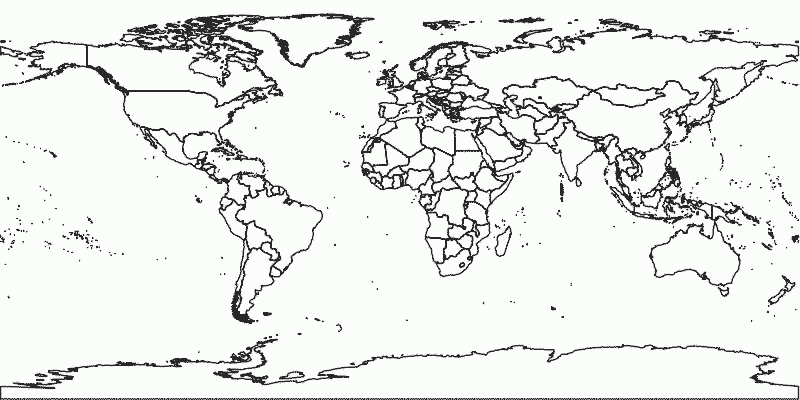
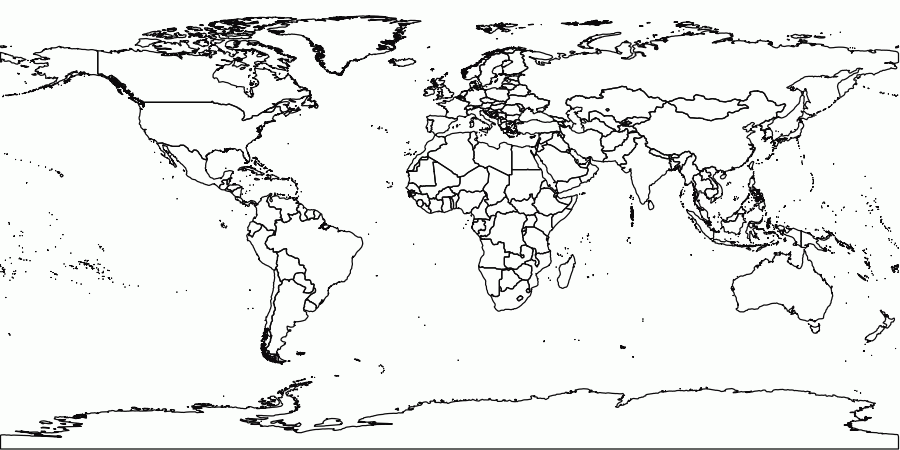
Resized default map to be a bit larger

diff --git a/public/javascript/simplemappr.min.js b/public/javascript/simplemappr.min.js
@@ -1,8 +1,8 @@
 /*
  * jQuery SimpleMappr
  */
-var SimpleMappr=function(b,k,h){'use strict';var q={settings:{baseUrl:"",active:!1,maxTextareaCount:10,undoSize:10},vars:{newPointCount:0,newRegionCount:0,zoom:!0,fileDownloadTimer:{},fillColor:"",jCropType:"zoom",cropUpdated:!1,origins:{"esri:102009":-96,"esri:102015":-60,"esri:102014":10,"esri:102012":105,"esri:102024":25,"epsg:3112":134},spinner:b("#map-loader").find("span.mapper-loading-spinner")},trackEvent:function(a,b){void 0!==k._gaq&&_gaq.push(["_trackEvent",a,b])},getPageSize:function(){var a,b,d,e;
-k.innerHeight&&k.scrollMaxY?(a=k.innerWidth+k.scrollMaxX,b=k.innerHeight+k.scrollMaxY):h.body.scrollHeight>h.body.offsetHeight?(a=h.body.scrollWidth,b=h.body.scrollHeight):(a=h.body.offsetWidth,b=h.body.offsetHeight);self.innerHeight?(d=h.documentElement.clientWidth?h.documentElement.clientWidth:self.innerWidth,e=self.innerHeight):h.documentElement&&h.documentElement.clientHeight?(d=h.documentElement.clientWidth,e=h.documentElement.clientHeight):h.body&&(d=h.body.clientWidth,e=h.body.clientHeight);
+var SimpleMappr=function(b,k,h){'use strict';var q={settings:{baseUrl:"",active:!1,seed:"",maxTextareaCount:10,undoSize:10},vars:{newPointCount:0,newRegionCount:0,zoom:!0,fileDownloadTimer:{},fillColor:"",jCropType:"zoom",cropUpdated:!1,origins:{"esri:102009":-96,"esri:102015":-60,"esri:102014":10,"esri:102012":105,"esri:102024":25,"epsg:3112":134},spinner:b("#map-loader").find("span.mapper-loading-spinner")},trackEvent:function(a,b){void 0!==k._gaq&&_gaq.push(["_trackEvent",a,b])},getPageSize:function(){var a,
+b,d,e;k.innerHeight&&k.scrollMaxY?(a=k.innerWidth+k.scrollMaxX,b=k.innerHeight+k.scrollMaxY):h.body.scrollHeight>h.body.offsetHeight?(a=h.body.scrollWidth,b=h.body.scrollHeight):(a=h.body.offsetWidth,b=h.body.offsetHeight);self.innerHeight?(d=h.documentElement.clientWidth?h.documentElement.clientWidth:self.innerWidth,e=self.innerHeight):h.documentElement&&h.documentElement.clientHeight?(d=h.documentElement.clientWidth,e=h.documentElement.clientHeight):h.body&&(d=h.body.clientWidth,e=h.body.clientHeight);
 return[a<d?a:d,b<e?e:b,d,e]},getPageScroll:function(){var a,b;self.pageYOffset?(b=self.pageYOffset,a=self.pageXOffset):h.documentElement&&h.documentElement.scrollTop?(b=h.documentElement.scrollTop,a=h.documentElement.scrollLeft):h.body&&(b=h.body.scrollTop,a=h.body.scrollLeft);return[a,b]},showCoords:function(a){var c=this,d=parseFloat(a.x),e=parseFloat(a.y),f=parseFloat(a.x2),g=parseFloat(a.y2),l=parseFloat(a.w);a=parseFloat(a.h);var h={x:d,y:e},p={x:f,y:g},k={},m={},r=b("#mapExport").find('input[name="download-factor"]:checked').val(),
 n=b("#mapOutput");switch(this.vars.jCropType){case "crop":n.find("div.jcrop-holder div:first").css({backgroundColor:"white"});b("#bbox_rubberband").val(d+","+e+","+f+","+g);"epsg:4326"===b("#projection option:selected").val()?n.find("input.jcrop-coord").css({width:"100px"}):n.find("input.jcrop-coord").css({width:"175px"});0===b("#jcrop-coord-ul").length&&0===b("#jcrop-coord-lr").length&&n.find("div.jcrop-tracker").eq(0).after('<input type="text" id="jcrop-coord-ul" class="jcrop-coord"></input>').after('<input type="text" id="jcrop-coord-lr" class="jcrop-coord"></input>').after('<div id="jcrop-dimension-wrapper"><input type="text" id="jcrop-dimension-w" class="jcrop-dimension"></input>X<input type="text" id="jcrop-dimension-h" class="jcrop-dimension"></input></div>');
 k=c.pix2geo(h);m=c.pix2geo(p);b("#jcrop-coord-ul").val(k.x+", "+k.y);b("#jcrop-coord-lr").val(m.x+", "+m.y);b("#jcrop-dimension-w").val(l);b("#jcrop-dimension-h").val(a);b("#jcrop-dimension-wrapper").css({left:l/2-b("#jcrop-dimension-wrapper").width()/2,top:a/2-b("#jcrop-dimension-wrapper").height()/2});b.cookie("jcrop_coords",'{ "jcrop_coord_ul" : "'+b("#jcrop-coord-ul").val()+'", "jcrop_coord_lr" : "'+b("#jcrop-coord-lr").val()+'" }');n.on("blur","input.jcrop-coord",function(){c.vars.cropUpdated||
@@ -14,10 +14,10 @@ parseFloat(a.x)*c/f,2);l.y=this.roundNumber(parseFloat(e[1])+parseFloat(g-parseF
 d;return f},roundNumber:function(a,b){return Math.round(a*Math.pow(10,b))/Math.pow(10,b)},tabSelector:function(a){var c={};b("#tabs").tabs("select",a);c.tabs=a;b.bbq.pushState(c)},RGBtoHex:function(a,b,d){return this.toHex(a)+this.toHex(b)+this.toHex(d)},toHex:function(a){if(null===a)return"00";a=parseInt(a,10);if(0===a||isNaN(a))return"00";a=Math.max(0,a);a=Math.min(a,255);a=Math.round(a);return"0123456789ABCDEF".charAt((a-a%16)/16)+"0123456789ABCDEF".charAt(a%16)},bindToolbar:function(){var a=this,
 c="";b("#actionsBar").find("li").hover(function(){b(this).toggleClass("ui-state-hover")}).end().find("a.toolsQuery").ColorPicker({onBeforeShow:function(){b(this).ColorPickerSetColor(a.RGBtoHex(150,150,150))},onShow:function(c){b(c).show();a.destroyJcrop();return!1},onHide:function(a){b(a).hide();return!1},onSubmit:function(c,e,f,g){a.unusedVariables(c,e);b(g).ColorPickerHide();a.vars.fillColor=f;a.initJquery();a.vars.zoom=!1}}).end().on("click","a",function(d){d.preventDefault();c=b(this).attr("class").match(/tools([\w\W]+)/)[1].toLowerCase();
 switch(c){case "zoomin":a.mapZoom("in");break;case "zoomout":a.mapZoom("out");break;case "crop":a.mapCrop();break;case "query":a.resetJbbox();break;case "refresh":a.mapRefresh();break;case "rebuild":a.mapRebuild();break;case "save":a.mapSave();break;case "download":a.mapDownload()}a.trackEvent("toolbar",c)})},mapCrop:function(){var a={},c=[],c={},a=[],a={};b.cookie("jcrop_coords")?(a=b.parseJSON(b.cookie("jcrop_coords")),c=a.jcrop_coord_ul.split(","),a=a.jcrop_coord_lr.split(","),c=this.geo2pix({x:b.trim(c[0]),
-y:b.trim(c[1])}),a=this.geo2pix({x:b.trim(a[0]),y:b.trim(a[1])}),this.loadCropSettings({map:{bbox_rubberband:a.x+","+a.y+","+c.x+","+c.y}})):this.initJcrop();this.vars.zoom=!1},resetAndBuild:function(){this.resetJbbox();this.destroyRedo();this.showMap()},mapRefresh:function(){this.resetAndBuild();this.tabSelector(0)},mapRebuild:function(){b.each("bbox_map projection_map bbox_rubberband rotation projection pan".split(" "),function(){b("#"+this).val("")});this.destroyRedo();this.showMap()},bindArrows:function(){var a=
-this;b("#wheel-overlay").on("click","a.arrows",function(c){c.preventDefault();b("#pan").val(b(this).attr("data-pan"));a.resetJbbox();a.showMap();a.trackEvent("arrows",b(this).attr("data-pan"))})},mapPan:function(a){b("#pan").val(a);this.resetAndBuild()},mapList:function(){this.tabSelector(3)},mapZoom:function(a){"in"===a?(this.initJzoom(),this.vars.zoom=!0):(this.resetJbbox(),b("#zoom_out").val(1),this.destroyRedo(),this.showMap(),b("#zoom_out").val(""))},storageType:function(a){var c=0,d=this;return c=
-b.grep(b.jStorage.index(),function(b,c){d.unusedVariables(c);return b.substring(0,a.length)===a})},toggleUndo:function(a){var c=this,d=this.storageType("do"),e=b("#actionsBar");e.find("a.toolsUndo").removeClass("toolsUndo").addClass("toolsUndoDisabled").off("click");a&&1<d.length&&(d.length>c.settings.undoSize&&b.jStorage.deleteKey(d.shift()),e.find("a.toolsUndoDisabled").addClass("toolsUndo").removeClass("toolsUndoDisabled").on("click",function(a){a.preventDefault();c.mapUndo();c.trackEvent("edit",
-"undo")}))},toggleRedo:function(a){var c=this,d=b("#actionsBar");d.find("a.toolsRedo").addClass("toolsRedoDisabled").removeClass("toolsRedo").off("click");if(a)d.find("a.toolsRedoDisabled").addClass("toolsRedo").removeClass("toolsRedoDisabled").on("click",function(a){a.preventDefault();c.mapRedo();c.trackEvent("edit","redo")})},destroyRedo:function(){var a=this.storageType("undo"),c=b("#actionsBar");0<a.length&&(c.find("a.toolsRedo").addClass("toolsRedoDisabled").removeClass("toolsRedo").off("click"),
+y:b.trim(c[1])}),a=this.geo2pix({x:b.trim(a[0]),y:b.trim(a[1])}),this.loadCropSettings({map:{bbox_rubberband:a.x+","+a.y+","+c.x+","+c.y}})):this.initJcrop();this.vars.zoom=!1},resetAndBuild:function(){this.resetJbbox();this.destroyRedo();this.showMap()},mapRefresh:function(){this.resetAndBuild();this.tabSelector(0)},mapRebuild:function(){b.each(["bbox_map","projection_map","bbox_rubberband","rotation","pan"],function(){b("#"+this).val("")});b("#projection")[0].selectedIndex=0;this.destroyRedo();
+this.showMap()},bindArrows:function(){var a=this;b("#wheel-overlay").on("click","a.arrows",function(c){c.preventDefault();b("#pan").val(b(this).attr("data-pan"));a.resetJbbox();a.showMap();a.trackEvent("arrows",b(this).attr("data-pan"))})},mapPan:function(a){b("#pan").val(a);this.resetAndBuild()},mapList:function(){this.tabSelector(3)},mapZoom:function(a){"in"===a?(this.initJzoom(),this.vars.zoom=!0):(this.resetJbbox(),b("#zoom_out").val(1),this.destroyRedo(),this.showMap(),b("#zoom_out").val(""))},
+storageType:function(a){var c=0,d=this;return c=b.grep(b.jStorage.index(),function(b,c){d.unusedVariables(c);return b.substring(0,a.length)===a})},toggleUndo:function(a){var c=this,d=this.storageType("do"),e=b("#actionsBar");e.find("a.toolsUndo").removeClass("toolsUndo").addClass("toolsUndoDisabled").off("click");a&&1<d.length&&(d.length>c.settings.undoSize&&b.jStorage.deleteKey(d.shift()),e.find("a.toolsUndoDisabled").addClass("toolsUndo").removeClass("toolsUndoDisabled").on("click",function(a){a.preventDefault();
+c.mapUndo();c.trackEvent("edit","undo")}))},toggleRedo:function(a){var c=this,d=b("#actionsBar");d.find("a.toolsRedo").addClass("toolsRedoDisabled").removeClass("toolsRedo").off("click");if(a)d.find("a.toolsRedoDisabled").addClass("toolsRedo").removeClass("toolsRedoDisabled").on("click",function(a){a.preventDefault();c.mapRedo();c.trackEvent("edit","redo")})},destroyRedo:function(){var a=this.storageType("undo"),c=b("#actionsBar");0<a.length&&(c.find("a.toolsRedo").addClass("toolsRedoDisabled").removeClass("toolsRedo").off("click"),
 b.jStorage.deleteKey(a.pop()))},mapUndo:function(){var a=this.storageType("do"),c="",d={},e="",e={},f={};1!==a.length&&(this.destroyRedo(),c=a[a.length-1],d=b.jStorage.get(c),e=a[a.length-2],e=b.jStorage.get(e),f=this.prepareInputs(e),this.loadInputs(f),b.jStorage.deleteKey(c),b.jStorage.set("un"+c,d),e.width!==d.width?this.mapToggleSettings():(this.showSpinner(),this.postData(decodeURIComponent(b.param(e)),null)),this.toggleRedo(!0),2===a.length&&this.toggleUndo())},mapRedo:function(){var a=this.storageType("undo"),
 c="",d={},e={},e=this.storageType("do"),f="",f={},g=(new Date).getTime();0!==a.length&&(this.toggleRedo(),c=a.pop(),d=b.jStorage.get(c),f=e[e.length-1],f=b.jStorage.get(f),e=this.prepareInputs(d),this.loadInputs(e),b.jStorage.deleteKey(c),b.jStorage.set("do-"+g.toString(),d),d.width!==f.width?this.mapToggleSettings():(this.showSpinner(),this.postData(decodeURIComponent(b.param(d)),null)),this.toggleUndo(!0))},bindHotkeys:function(){var a=this,c={},d={},c={"ctrl+s":a.bindCallback(a,a.mapSave),"ctrl+d":a.bindCallback(a,
 a.mapDownload),"ctrl+l":a.bindCallback(a,a.mapList),"ctrl+r":a.bindCallback(a,a.mapRefresh),"ctrl+n":a.bindCallback(a,a.mapRebuild),"ctrl+x":a.bindCallback(a,a.mapCrop),"ctrl+e":a.bindCallback(a,a.mapToggleSettings),"ctrl++":a.bindCallback(a,a.mapZoom,"in"),"ctrl+-":a.bindCallback(a,a.mapZoom,"out"),esc:a.bindCallback(a,a.destroyJcrop),"ctrl+z":a.bindCallback(a,a.mapUndo),"ctrl+y":a.bindCallback(a,a.mapRedo)},d={up:a.bindCallback(a,a.mapPan,"up"),down:a.bindCallback(a,a.mapPan,"down"),left:a.bindCallback(a,
@@ -68,7 +68,7 @@ this+'"]:checked').val())}),b("#grid_space").val(b("#graticules-selection").find
 {text:b("#button-titles").find("span.cancel").text(),"class":"ui-button-cancel",click:function(){b(this).dialog("destroy")}}]})},mapDownload:function(){var a=this;b("#mapExport").dialog({autoOpen:!0,width:"620",dialogClass:"ui-dialog-title-mapExport",modal:!0,closeOnEscape:!1,draggable:!0,resizable:!1,buttons:[{text:b("#button-titles").find("span.download").text(),"class":"positive",click:function(){a.generateDownload()}},{text:b("#button-titles").find("span.cancel").text(),"class":"ui-button-cancel",
 click:function(){b(this).dialog("destroy")}}]})},bindSubmit:function(){var a=this,c="",d=!1;b("#map-points, #map-regions").find("button.submitForm").on("click",function(e){e.preventDefault();d=!1;b.each(b(this).parent().parent().find("div.fieldSets").children(),function(){c=b(this).find("input.m-mapTitle").on("keyup",function(){d=!1;b(this).removeClass("ui-state-error")});if(b(this).find("textarea.m-mapCoord").val()&&""===c.val())return d=!0,c.addClass("ui-state-error"),!1});d?a.showMessage(b("#mapper-missing-legend").text()):
 (a.destroyRedo(),a.showMap(),a.tabSelector(0))})},mapToggleSettings:function(){b("#mapToolsCollapse").find("a").trigger("click")},bindPanelToggle:function(){var a=this;b("#mapToolsCollapse").find("a").tipsy({gravity:"e"}).toggleClick(function(c){c.preventDefault();b("#mapOutputImage").attr("width",0).attr("height",0).css({width:"0px",height:"0px"});b("#mapOutputScale").hide();b(this).parent().addClass("mapTools-collapsed");b("#mapTools").hide("slide",{direction:"right"},250,function(){var c=0.98*
-b(k).width();b("#actionsBar").animate({width:c},250);b("#map").animate({width:c},250,function(){b("#width").val(c);a.mapRefresh()})})},function(c){c.preventDefault();b("#mapOutputImage").attr("width",0).attr("height",0).css({width:"0px",height:"0px"});b("#mapOutputScale").hide();b(this).parent().removeClass("mapTools-collapsed");b("#mapTools").show("slide",{direction:"right"},250,function(){b("#actionsBar").animate({width:"810px"},250);b("#map").animate({width:"800px"},250,function(){b("#width").val(800);
+b(k).width();b("#actionsBar").animate({width:c},250);b("#map").animate({width:c},250,function(){b("#width").val(c);a.mapRefresh()})})},function(c){c.preventDefault();b("#mapOutputImage").attr("width",0).attr("height",0).css({width:"0px",height:"0px"});b("#mapOutputScale").hide();b(this).parent().removeClass("mapTools-collapsed");b("#mapTools").show("slide",{direction:"right"},250,function(){b("#actionsBar").animate({width:"910px"},250);b("#map").animate({width:"900px"},250,function(){b("#width").val(900);
 a.mapRefresh()})})})},showMessage:function(a){b("#mapper-message").html(a).dialog({autoOpen:!0,height:"200",width:"400",dialogClass:"ui-dialog-title-mapper-message",modal:!0,closeOnEscape:!1,draggable:!0,resizable:!1,buttons:[{text:"OK","class":"positive",click:function(){b(this).dialog("destroy")}}]}).show()},drawLegend:function(){var a=b("#legend_url").val(),c=b("#mapLegend");a?c.html('<img src="'+a+'" />'):c.html("<p><em>"+b("#mapper-legend-message").text()+"</em></p>")},drawScalebar:function(){b("#mapScale").find("img").attr("src",
 b("#scalebar_url").val()).show()},showBadPoints:function(){var a=b("#bad_points").val();a&&(b("#badRecords").html(a),b("#badRecordsWarning").show())},showSpinner:function(){this.vars.spinner.show()},hideSpinner:function(){this.vars.spinner.hide()},showErrorMessage:function(a){a='<span class="mapper-message-error ui-corner-all ui-widget-content">'+a+"</span>";b("#mapOutput").append(a)},hideErrorMessage:function(){b("#mapOutput").find(".mapper-message-error").remove()},showMap:function(a){var c=(new Date).getTime(),
 d="",e={};this.destroyJcrop();b("#output").val("pnga");b("#badRecordsWarning").hide();b("#download_token").val(c);this.showSpinner();d=b("form").serialize();e=b("form").serializeJSON();this.postData(d,a);b.jStorage.set("do-"+c.toString(),e);this.toggleUndo(!0)},postData:function(a,c){var d=this;d.hideErrorMessage();b.ajax({type:"POST",url:d.settings.baseUrl+"/application/",data:a,dataType:"json",timeout:3E4,success:function(a){d.resetFormValues(a);d.resetJbbox();d.drawMap(a,c);d.drawLegend();d.drawScalebar();
@@ -78,14 +78,15 @@ position:[200,200],modal:!0,closeOnEscape:!1,draggable:!0,resizable:!1,buttons:[
 b("#file_name").val(c);b("#download_factor").val(b("#mapExport").find('input[name="download-factor"]:checked').val());g=b("#mapExport").find('input[name="download-filetype"]:checked').val();a.setFormOptions();b("#download_token").val(d);b("#mapExport").find("div.download-dialog").hide().end().next().hide().end().find("div.download-message").show();switch(g){case "pptx":b("#output").val("pptx");a.vars.jcropAPI?b("#crop").val(1):a.resetJbbox();f=b("form").serialize();b("body").download("/pptx/"+a.getLanguage(),
 f,"post");b("#output").val("pnga");break;case "docx":b("#output").val("docx");a.vars.jcropAPI?b("#crop").val(1):a.resetJbbox();f=b("form").serialize();b("body").download("/docx/"+a.getLanguage(),f,"post");b("#output").val("pnga");break;case "kml":f=b("form").serialize();b("body").download("/kml/",f,"post");break;default:b("#download").val(1),b("#output").val(g),a.vars.jcropAPI?b("#crop").val(1):a.resetJbbox(),f=b("form").serialize(),b("body").download("/application/",f,"post"),b("#download").val(""),
 b("#output").val("pnga")}a.vars.fileDownloadTimer=k.setInterval(function(){e=b.cookie("fileDownloadToken");e===d&&a.finishDownload()},1E3);a.trackEvent("download",g)},setFormOptions:function(){b.each(["border","legend","scalebar","scalelinethickness"],function(){b("#options\\["+this+"\\]").val("");b("#"+this).prop("checked")&&b("#options\\["+this+"\\]").val(1)})},finishDownload:function(){b("#mapExport").find("div.download-message").hide().end().next().show().end().find("div.download-dialog").show();
-k.clearInterval(this.vars.fileDownloadTimer);b.cookie("fileDownloadToken",null)},showExamples:function(){b("#mapper-message-help").html('<img src="public/images/help-data.png" alt="" />').dialog({height:"355",width:"525",dialogClass:"ui-dialog-title-mapper-message-help",autoOpen:!0,modal:!0,closeOnEscape:!1,draggable:!0,resizable:!1,buttons:[{text:"OK","class":"positive",click:function(){b(this).dialog("destroy")}}]}).show()},showCodes:function(){var a=this.getParameterByName("locale")?{locale:this.getParameterByName("locale")}:
-{};b("#mapper-message-codes").dialog({height:"450",width:"850",dialogClass:"ui-dialog-title-mapper-message-codes",autoOpen:!0,modal:!0,closeOnEscape:!1,draggable:!0,resizable:!1,buttons:[{text:"OK","class":"positive",click:function(){b("#mapper-message-codes").find("table").remove();b(this).dialog("destroy")}}]});this.loadCodes(b("#mapper-message-codes"),a)},loadCodes:function(a,c){var d=this,e="";a.find("tbody tr td").text("\u00a0");a.find("tbody tr td:first").text("\u00a0\u00a0\u00a0").addClass("loading");
+k.clearInterval(this.vars.fileDownloadTimer);b.cookie("fileDownloadToken",null)},showExamples:function(){var a='<img src="public/images/help-data.png?seed='+this.settings.seed+'" alt="" />';b("#mapper-message-help").html(a).dialog({height:"355",width:"525",dialogClass:"ui-dialog-title-mapper-message-help",autoOpen:!0,modal:!0,closeOnEscape:!1,draggable:!0,resizable:!1,buttons:[{text:"OK","class":"positive",click:function(){b(this).dialog("destroy")}}]})},showCodes:function(){var a=this.getParameterByName("locale")?
+{locale:this.getParameterByName("locale")}:{};b("#mapper-message-codes").dialog({height:"450",width:"850",dialogClass:"ui-dialog-title-mapper-message-codes",autoOpen:!0,modal:!0,closeOnEscape:!1,draggable:!0,resizable:!1,buttons:[{text:"OK","class":"positive",click:function(){b("#mapper-message-codes").find("table").remove();b(this).dialog("destroy")}}]});this.loadCodes(b("#mapper-message-codes"),a)},loadCodes:function(a,c){var d=this,e="";a.find("tbody tr td").text("\u00a0");a.find("tbody tr td:first").text("\u00a0\u00a0\u00a0").addClass("loading");
 b.ajax({type:"GET",url:d.settings.baseUrl+"/places/",data:c,dataType:"html",success:function(b){a.html(b);e=a.find("input.filter-countries");e.val("");void 0!==c.filter&&e.val(c.filter);e.on("keypress",function(b){var f=b.keyCode||b.which;if(13===f||9===f)b.preventDefault(),c.filter=e.val(),d.loadCodes(a,c)}).on("blur",function(){c.filter=e.val();d.loadCodes(a,c)})}})},performRotation:function(a){b("#rotation").val(b(a).attr("data-rotate"));this.resetJbbox();this.destroyRedo();this.showMap();this.trackEvent("rotate",
 b(a).attr("data-rotate"))},setRotation:function(a){var c=b("#mapControls"),d=c.find("div.thumb"),e=c.find("ul.overview"),f=e.find("li"),g=0,h=g=0;a||(a=0);a=0>parseFloat(a)?parseFloat(a)+360:parseFloat(a);g=a*(Math.PI/180);e.css({left:-(a/360*f.outerWidth(!0)*f.length)+"px"});h=Math.round(28*-Math.cos(g)+(c.outerHeight()/2-d.outerHeight()/2))+"px";g=Math.round(28*Math.sin(g)+(c.outerWidth()/2-d.outerWidth()/2))+"px";d.css({top:h,left:g})},getParameterByName:function(a){a="[\\?&]"+a.replace(/[\[]/,
 "\\[").replace(/[\]]/,"\\]")+"=([^&#]*)";a=RegExp(a).exec(k.location.href);return null===a?"":decodeURIComponent(a[1].replace(/\+/g," "))},mapCircleSlider:function(){for(var a=0,b="",a=0;360>a;a+=1)0===a%5&&(b+='<li data-rotate="'+a+'"></li>');return b},clearStorage:function(){this.destroyRedo();b.jStorage.flush()},bindStorage:function(){var a={},c=(new Date).getTime();this.clearStorage();a=b("form").serializeJSON();b.jStorage.set("do-"+c.toString(),a)},bindRotateWheel:function(){var a=this;b("#wheel-overlay").css({backgroundImage:'url("public/images/bg-rotatescroll.png")'});
 b("#mapControls").find("ul.overview").append(a.mapCircleSlider()).end().tinycircleslider({snaptodots:!0,radius:28,callback:function(c,d){a.unusedVariables(d);b("#map-loader").find("span.mapper-loading-spinner").is(":hidden")&&a.performRotation(c)}})},bindTabs:function(){var a=this,c=b("#tabs");b("#mapTools").tabs({selected:0});c.tabs({cache:!0,load:function(c,e){a.unusedVariables(c);b(e.tab).data("cache.tabs",""===b(e.panel).html()?!1:!0)},event:"change"}).find("div.ui-state-disabled").each(function(){b(this).removeClass("ui-state-disabled")}).end().show();
 c.find("ul.navigation a").on("click",function(){var c={},e=b(this).parent().prevAll().length;c.tabs=e;b.bbq.pushState(c);a.adjustLanguageLinks("tabs",e)});b(k).bind("hashchange",function(){var d=b.bbq.getState("tabs",!0)||0;c.find("ul.navigation a").eq(d).triggerHandler("change");a.adjustLanguageLinks("tabs",d)});b(k).trigger("hashchange")},adjustLanguageLinks:function(a,c){var d="";b.each(b("#site-languages").find("a"),function(){d=b(this).attr("href").split("#")[0];b(this).attr("href",d+"#"+a+"="+
-c)})},screenSizeListener:function(){var a=this;b(k).resize(function(){var c=a.getPageSize(),d=a.getPageScroll();b("#mapper-overlay").css({width:c[0],height:c[1]});b("#mapper-message").css({top:d[1]+c[3]/10,left:d[0],position:"fixed",zIndex:1001,margin:"0px auto",width:"100%"})})},unusedVariables:function(){},init:function(){var a=this;this.screenSizeListener();this.bindRotateWheel();this.hideSpinner();b("#header").find("div").show();this.bindTabs();b("#mapOutput").append('<img id="mapOutputImage" src="public/images/basemap.png" alt="" width="800" height="400" />');
-b("#mapScale").append('<img id="mapOutputScale" src="public/images/basemap-scalebar.png" width="200" height="27" />');b("#site-session").find("a.login").on("click",function(b){b.preventDefault();a.tabSelector(3)});b("#general-points").find("a.show-examples").on("click",function(b){b.preventDefault();a.showExamples()});b("#regions-introduction").find("a.show-codes").on("click",function(b){b.preventDefault();a.showCodes()});b("#fieldSetsPoints, #fieldSetsRegions").accordion({header:"h3",collapsible:!0,
-autoHeight:!1});b("#mapWrapper").find("a.tooltip").tipsy({gravity:"s"});this.bindStorage();this.bindHotkeys();this.bindToolbar();this.bindArrows();this.bindSettings();this.bindSlider();this.bindColorPickers();this.bindAddButtons();this.bindClearButtons();this.bindAutocomplete();this.bindSubmit();this.bindPanelToggle();b("#actionsBar").find("a.toolsUndoDisabled").off("click").end().find("a.toolsRedoDisabled").off("click");b("#fieldSetsPoints, #fieldSetsRegions").find("textarea.resizable:not(.textarea-processed)").TextAreaResizer();
-0<b("#usermaps").length&&(this.loadMapList(),this.tabSelector(3));0<b("#userdata").length&&(this.loadUserList(),this.tabSelector(4));b("input").on("keypress",function(a){a=a.keyCode||a.which;if(13===a||9===a)return!1})}};return{init:function(a){b.extend(q.settings,a);q.init()},getParameterByName:function(a){q.getParameterByName(a)},loadCodes:function(a,b){q.loadCodes(a,b)}}}(jQuery,window,document);
+c)})},screenSizeListener:function(){var a=this;b(k).resize(function(){var c=a.getPageSize(),d=a.getPageScroll();b("#mapper-overlay").css({width:c[0],height:c[1]});b("#mapper-message").css({top:d[1]+c[3]/10,left:d[0],position:"fixed",zIndex:1001,margin:"0px auto",width:"100%"})})},unusedVariables:function(){},init:function(){var a=this;this.screenSizeListener();this.bindRotateWheel();this.hideSpinner();b("#header").find("div").show();this.bindTabs();b("#mapOutput").append('<img id="mapOutputImage" src="public/images/basemap.png?seed='+
+this.settings.seed+'" alt="" width="900" height="450" />');b("#mapScale").append('<img id="mapOutputScale" src="public/images/basemap-scalebar.png?seed='+this.settings.seed+'" width="200" height="27" />');b("#site-session").find("a.login").on("click",function(b){b.preventDefault();a.tabSelector(3)});b("#general-points").find("a.show-examples").on("click",function(b){b.preventDefault();a.showExamples()});b("#regions-introduction").find("a.show-codes").on("click",function(b){b.preventDefault();a.showCodes()});
+b("#fieldSetsPoints, #fieldSetsRegions").accordion({header:"h3",collapsible:!0,autoHeight:!1});b("#mapWrapper").find("a.tooltip").tipsy({gravity:"s"});this.bindStorage();this.bindHotkeys();this.bindToolbar();this.bindArrows();this.bindSettings();this.bindSlider();this.bindColorPickers();this.bindAddButtons();this.bindClearButtons();this.bindAutocomplete();this.bindSubmit();this.bindPanelToggle();b("#actionsBar").find("a.toolsUndoDisabled").off("click").end().find("a.toolsRedoDisabled").off("click");
+b("#fieldSetsPoints, #fieldSetsRegions").find("textarea.resizable:not(.textarea-processed)").TextAreaResizer();0<b("#usermaps").length&&(this.loadMapList(),this.tabSelector(3));0<b("#userdata").length&&(this.loadUserList(),this.tabSelector(4));b("input").on("keypress",function(a){a=a.keyCode||a.which;if(13===a||9===a)return!1})}};return{init:function(a){b.extend(q.settings,a);q.init()},getParameterByName:function(a){q.getParameterByName(a)},loadCodes:function(a,b){q.loadCodes(a,b)}}}(jQuery,window,
+document);

diff --git a/public/stylesheets/raw/styles.css b/public/stylesheets/raw/styles.css
@@ -7,7 +7,7 @@ textarea{resize:none;padding:0;}
 .sprites-before:before, .ui-dialog-titlebar .ui-dialog-title:before{background-image:url("../../images/sprites.png");content:"";height:17px;width:16px;margin:0 0.2em;display:inline-block;vertical-align:middle;}
 .sprites-after:after{background-image:url("../../images/sprites.png");content:"";height:17px;width:16px;margin:0.45em 0.2em;display:inline-block;float:right;}
 .hidden-message{display:none;}
-#header,#tabs{min-width:1115px;}
+#header,#tabs{min-width:1175px;}
 #header{color:#bababa;font-size:0.8em;position:relative;z-index:100;top:0;height:2.5em;line-height:2.5em;width:100%;box-shadow:0 1px 2px rgba(0, 0, 0, 0.5);background-color: #333;}
 #header a{color:#bababa;text-decoration:none;}
 #header a:hover{color:#fff;}
@@ -26,10 +26,10 @@ textarea{resize:none;padding:0;}
 #site-languages li{list-style:none;display:inline;margin:0px 5px;padding:0px;}
 #site-languages li a.selected{color:white;}
 #wrapper{position:absolute;width:100%;top:1.75em;}
-#tabs{min-height:500px;display:none;border:0px;}
+#tabs{min-height:520px;display:none;border:0px;}
 #error-message{margin:0;padding:1em;}
 ul.navigation{border-top:0px;border-left:0px;border-right:0px;border-radius:0px;}
-ul.navigation li.ui-state-default{line-height:1.25em;margin-top:0.75em;border:1px solid transparent;}
+ul.navigation li.ui-state-default{margin-top:0.75em;border:1px solid transparent;}
 ul.navigation li.ui-state-hover{border:1px solid #aaa;}
 ul.navigation a.map-mymaps:before{background-position:-200px -284px;}
 ul.navigation a.map-users:before{background-position:-160px -264px;}
@@ -87,14 +87,14 @@ button[disabled], button[disabled]:hover, button[disabled]:active{color:#666 !im
 .submit{text-align:left;margin-top:15px;margin-left:20px;}
 .header{border-bottom:1px solid #aaa;width:50%;margin-top:20px;}
 .header h2{border-bottom:2px solid #bbb;margin:0px;padding:3px 0px;width:12em;font-size:1em;}
-#map-preview{padding:1em 0.3em;background-color:#fff;height:460px;}
+#map-preview{padding:1em 0.3em;background-color:#fff;height:510px;}
 #map-preview p{font-size:0.75em;}
 #mapWrapper{position:relative;height:455px;width:100%;}
 #mapWrapper h2{font-size:0.75em;margin:10px 0 5px;padding:0;}
-#actionsBar{margin:0;padding:0;position:absolute;top:0;left:0;width:810px;outline-style:none;outline-width:medium;font-weight:normal;height:1.4em;}
+#actionsBar{margin:0;padding:0;position:absolute;top:0;left:0;width:910px;outline-style:none;outline-width:medium;font-weight:normal;height:1.4em;}
 #actionsBar a{text-decoration:none;}
 #actionsBar ul{margin:0;padding:0;}
-#actionsBar li{list-style:none;font-size:small;float:left;z-index:1001;border:1px solid transparent;border-radius:4px;}
+#actionsBar li{list-style:none;font-size:small;float:left;z-index:1001;border:1px solid transparent;border-radius:4px;line-height:1em;}
 #actionsBar a{display:block;margin:3px 4px;}
 #actionsBar a.tooltip{width:16px;height:16px;}
 #actionsBar a.toolsZoomIn, #map-help dt.toolsZoomIn:before{background-position:-160px -304px;}
@@ -115,14 +115,14 @@ button[disabled], button[disabled]:hover, button[disabled]:active{color:#666 !im
 #actionsBar #mapTitle{margin:0 0 0 10px;padding:0;font-style:italic;font-size:1em;display:inline;height:1.3em;line-height:1.3em;}
 #actionsBar #map-saveDialog{display:inline;position:absolute;right:0px;}
 .customJzoom .jcrop-vline, .customJzoom .jcrop-hline{background-color:#ff0000;}
-.jcrop-coord{position:absolute;border:1px solid #aaa;background-color:#e0e0e0;opacity:0.6;padding:3px;z-index:500;border-radius:4px;width:100px;font-size:0.7em !important;}
+.jcrop-coord{position:absolute;border:1px solid #aaa;background-color:rgba(224,224,224,0.6);padding:3px;z-index:500;border-radius:4px;width:100px;font-size:0.7em !important;}
 #jcrop-coord-ul{left:9px;top:9px;text-align:left;}
 #jcrop-coord-lr{right:9px;bottom:9px;text-align:right;}
-#jcrop-dimension-wrapper{text-align:center;width:125px;position:absolute;z-index:500;padding:3px;border:1px solid #aaa;background-color:#e0e0e0;opacity:0.6;border-radius:4px;}
+#jcrop-dimension-wrapper{text-align:center;width:125px;position:absolute;z-index:500;padding:3px;border:1px solid #aaa;background-color:rgba(224,224,224,0.6);border-radius:4px;}
 #jcrop-dimension-wrapper .jcrop-dimension{border:0px;background-color:transparent;font-size:1em;width:50px;}
 #jcrop-dimension-w{margin-right:2px;text-align:right;}
 #jcrop-dimension-h{margin-left:2px;text-align:left;}
-#map{position:absolute;top:40px;left:0;width:800px;}
+#map{position:absolute;top:40px;left:0;width:900px;}
 #mapImage{position:relative;}
 #mapOutputImage{background-color:#fff;}
 #mapControls{position:absolute;width:60px;height:60px;background-color:transparent;z-index:1000;top:5px;left:5px}
@@ -139,12 +139,12 @@ button[disabled], button[disabled]:hover, button[disabled]:active{color:#666 !im
 #mapControls .thumb{cursor:pointer;width:12px;height:12px;position:absolute;cursor:pointer;}
 #mapControls .dot{display:none;}
 #mapControls span{display: none;}
-#badRecordsWarning{display:none;font-size:0.5em;font-weight:bold;position:absolute;top:0px;right:5%;color:#ff0000;height:27px;line-height:27px;text-transform:uppercase;z-index:100;background-color:#fff;opacity:0.9;}
+#badRecordsWarning{display:none;font-size:0.5em;font-weight:bold;position:absolute;top:0px;right:5%;color:#ff0000;height:27px;line-height:27px;text-transform:uppercase;z-index:100;background-color:rgba(255,255,255,0.9);}
 #badRecordsWarning a.toolsBadRecords{text-decoration:none;color:#ff0000;}
 #badRecordsWarning a.toolsBadRecords:before{background-position:-240px -264px;}
 #badRecords{font-size:0.75em;}
 #mapScale{text-align:right;}
-#mapTools{position:absolute;top:0px;left:820px;right:0px;min-height:410px;}
+#mapTools{position:absolute;top:0px;left:920px;right:0px;min-height:410px;}
 #mapToolsCollapse{position:absolute;top:0;width:16px;z-index:10;padding:5px;}
 #mapToolsCollapse a{display:block;background-color:transparent;background-repeat:no-repeat;width:16px;height:16px;}
 .mapTools-default{right:-21px;}
@@ -301,8 +301,8 @@ button[disabled], button[disabled]:hover, button[disabled]:active{color:#666 !im
 .ui-corner-all, .ui-corner-top, .ui-corner-right, .ui-corner-tr{border-top-right-radius:4px;}
 .ui-corner-all, .ui-corner-bottom, .ui-corner-left, .ui-corner-bl{border-bottom-left-radius:4px;}
 .ui-corner-all, .ui-corner-bottom, .ui-corner-right, .ui-corner-br{border-bottom-right-radius:4px;}
-.ui-widget-overlay{background-color:#aaa;opacity:0.30;}
-.ui-widget-shadow{margin:-8px 0 0 -8px;padding:8px;background-color:#aaa;opacity:0.30;border-radius:8px;}
+.ui-widget-overlay{background-color:rgba(170,170,170,0.30);}
+.ui-widget-shadow{margin:-8px 0 0 -8px;padding:8px;background-color:rgba(170,170,170,0.3);border-radius:8px;}
 .ui-selectable-helper{position:absolute;z-index:100;border:1px dotted black;}
 .ui-accordion{width:100%;}
 .ui-accordion .ui-accordion-header{cursor:pointer;position:relative;margin-top:1px;border:1px solid #aaa;background-color:#e9e9e9;}
@@ -336,8 +336,8 @@ input.ui-button{padding:.4em 1em;}
 .ui-buttonset{margin-right:7px;}
 .ui-buttonset .ui-button{margin-left:0;margin-right:-.3em;}
 .ui-dialog{position:absolute;padding:.2em;width:300px;overflow:hidden;}
-.ui-dialog .ui-dialog-titlebar{padding:.4em 0.5em;position:relative;}
-.ui-dialog .ui-dialog-title{float:left;margin:.1em 16px .1em 0;}
+.ui-dialog .ui-dialog-titlebar{padding:0.4em;position:relative;}
+.ui-dialog .ui-dialog-title{float:left;margin:0px;}
 .ui-dialog .ui-dialog-content{position:relative;border:0;padding:.5em;background:none;overflow:auto;}
 .ui-dialog .ui-dialog-buttonpane{text-align:left;border-width:1px 0 0 0;background-image:none;margin:.5em 0 0 0;padding:.3em 1em .5em .4em;}
 .ui-dialog .ui-dialog-buttonpane .ui-dialog-buttonset{float:right;}

diff --git a/public/javascript/simplemappr.js b/public/javascript/simplemappr.js
@@ -11,6 +11,7 @@ var SimpleMappr = (function($, window, document) {
     settings: {
       baseUrl: '',
       active: false,
+      seed: '',
       maxTextareaCount: 10,
       undoSize: 10
     },
@@ -388,9 +389,10 @@ var SimpleMappr = (function($, window, document) {
     },
 
     mapRebuild: function() {
-      $.each(['bbox_map', 'projection_map', 'bbox_rubberband', 'rotation', 'projection', 'pan'], function() {
+      $.each(['bbox_map', 'projection_map', 'bbox_rubberband', 'rotation', 'pan'], function() {
         $('#' + this).val('');
       });
+      $('#projection')[0].selectedIndex = 0;
       this.destroyRedo();
       this.showMap();
     },
@@ -1800,9 +1802,9 @@ var SimpleMappr = (function($, window, document) {
         $('#mapOutputScale').hide();
         $(this).parent().removeClass("mapTools-collapsed");
         $('#mapTools').show("slide", { direction : "right" }, 250, function() {
-          $('#actionsBar').animate({ width : "810px" }, 250);
-          $('#map').animate({ width : "800px" }, 250, function() {
-             $('#width').val(800);
+          $('#actionsBar').animate({ width : "910px" }, 250);
+          $('#map').animate({ width : "900px" }, 250, function() {
+             $('#width').val(900);
              self.mapRefresh();
           });
         });
@@ -2061,7 +2063,7 @@ var SimpleMappr = (function($, window, document) {
     },
 
     showExamples: function() {
-      var message = '<img src="public/images/help-data.png" alt="" />';
+      var message = '<img src="public/images/help-data.png?seed='+this.settings.seed+'" alt="" />';
 
       $('#mapper-message-help').html(message).dialog({
         height        : '355',
@@ -2081,7 +2083,7 @@ var SimpleMappr = (function($, window, document) {
             }
           }
         ]
-      }).show();
+      });
     },
 
     showCodes: function() {
@@ -2291,8 +2293,8 @@ var SimpleMappr = (function($, window, document) {
       this.hideSpinner();
       $('#header').find('div').show();
       this.bindTabs();
-      $('#mapOutput').append('<img id="mapOutputImage" src="public/images/basemap.png" alt="" width="800" height="400" />');
-      $('#mapScale').append('<img id="mapOutputScale" src="public/images/basemap-scalebar.png" width="200" height="27" />');
+      $('#mapOutput').append('<img id="mapOutputImage" src="public/images/basemap.png?seed='+this.settings.seed+'" alt="" width="900" height="450" />');
+      $('#mapScale').append('<img id="mapOutputScale" src="public/images/basemap-scalebar.png?seed='+this.settings.seed+'" width="200" height="27" />');
       $('#site-session').find('a.login').on('click', function(e) { e.preventDefault(); self.tabSelector(3); });
       $('#general-points').find('a.show-examples').on('click', function(e) { e.preventDefault(); self.showExamples(); });
       $('#regions-introduction').find('a.show-codes').on('click', function(e) { e.preventDefault(); self.showCodes(); });

diff --git a/lib/header.class.php b/lib/header.class.php
@@ -164,10 +164,7 @@ class Header {
         $this->addCSS('<link type="text/css" href="public/stylesheets/cache/' . $css_min_file . '" rel="stylesheet" media="screen,print" />');
       } else {
         foreach($cached_css as $css) {
-          if(substr($css, -10) !== "-print.css") {
-            $this->addCSS('<link type="text/css" href="public/stylesheets/cache/' . $css . '" rel="stylesheet" media="screen,print" />');
-            break;
-          }
+          $this->addCSS('<link type="text/css" href="public/stylesheets/cache/' . $css . '" rel="stylesheet" media="screen,print" />');
         }
       }
 
@@ -237,7 +234,7 @@ class Header {
       $counter++;
     }
     $header .= ");" . "\n";
-    $header .= "head.ready(\"".$namespace."\", function () { SimpleMappr.init({ \"baseUrl\" : \"http://".$_SERVER['HTTP_HOST']."\", \"active\" : " . $session . " }); } );";
+    $header .= "head.ready(\"".$namespace."\", function () { SimpleMappr.init({ baseUrl : \"http://".$_SERVER['HTTP_HOST']."\", active : " . $session . ", seed : \"".$this->getHash()."\" }); } );";
     $header .= "</script>" . "\n";
     echo $header;
   }

diff --git a/lib/mappr.class.php b/lib/mappr.class.php
@@ -367,7 +367,7 @@ class Mappr {
     $this->regions          = $this->load_param('regions', array());
 
     $this->output           = $this->load_param('output','pnga');
-    $this->width            = (float)$this->load_param('width', 800);
+    $this->width            = (float)$this->load_param('width', 900);
     $this->height           = (float)$this->load_param('height', $this->width/2);
 
     $this->image_size       = array($this->width, $this->height);
